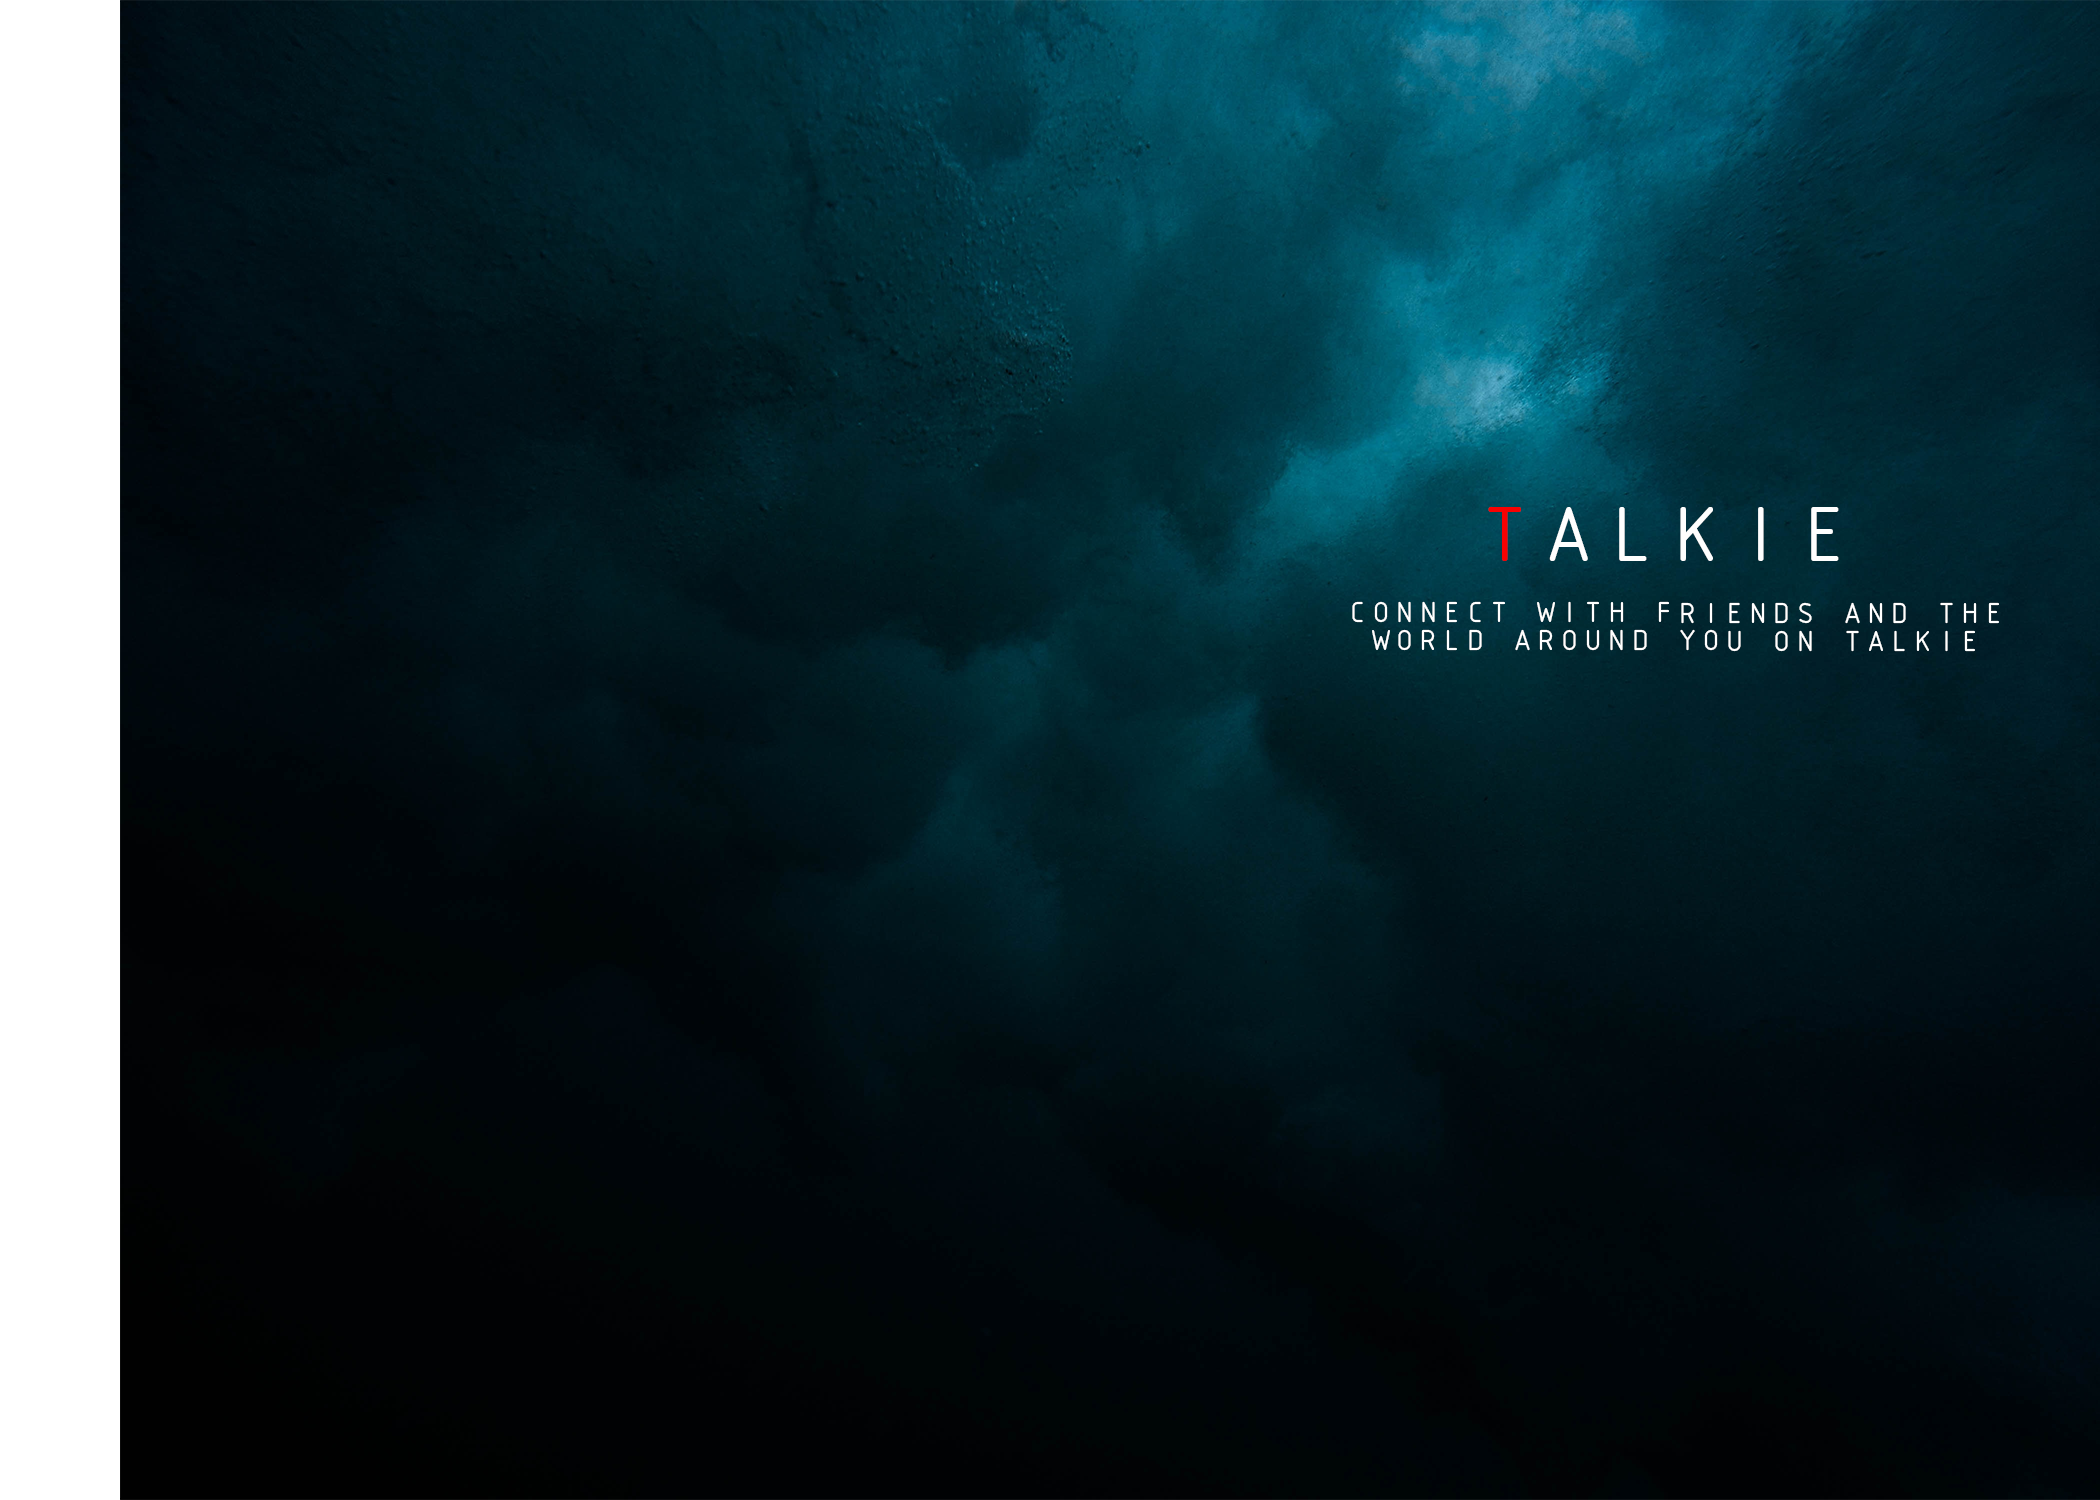
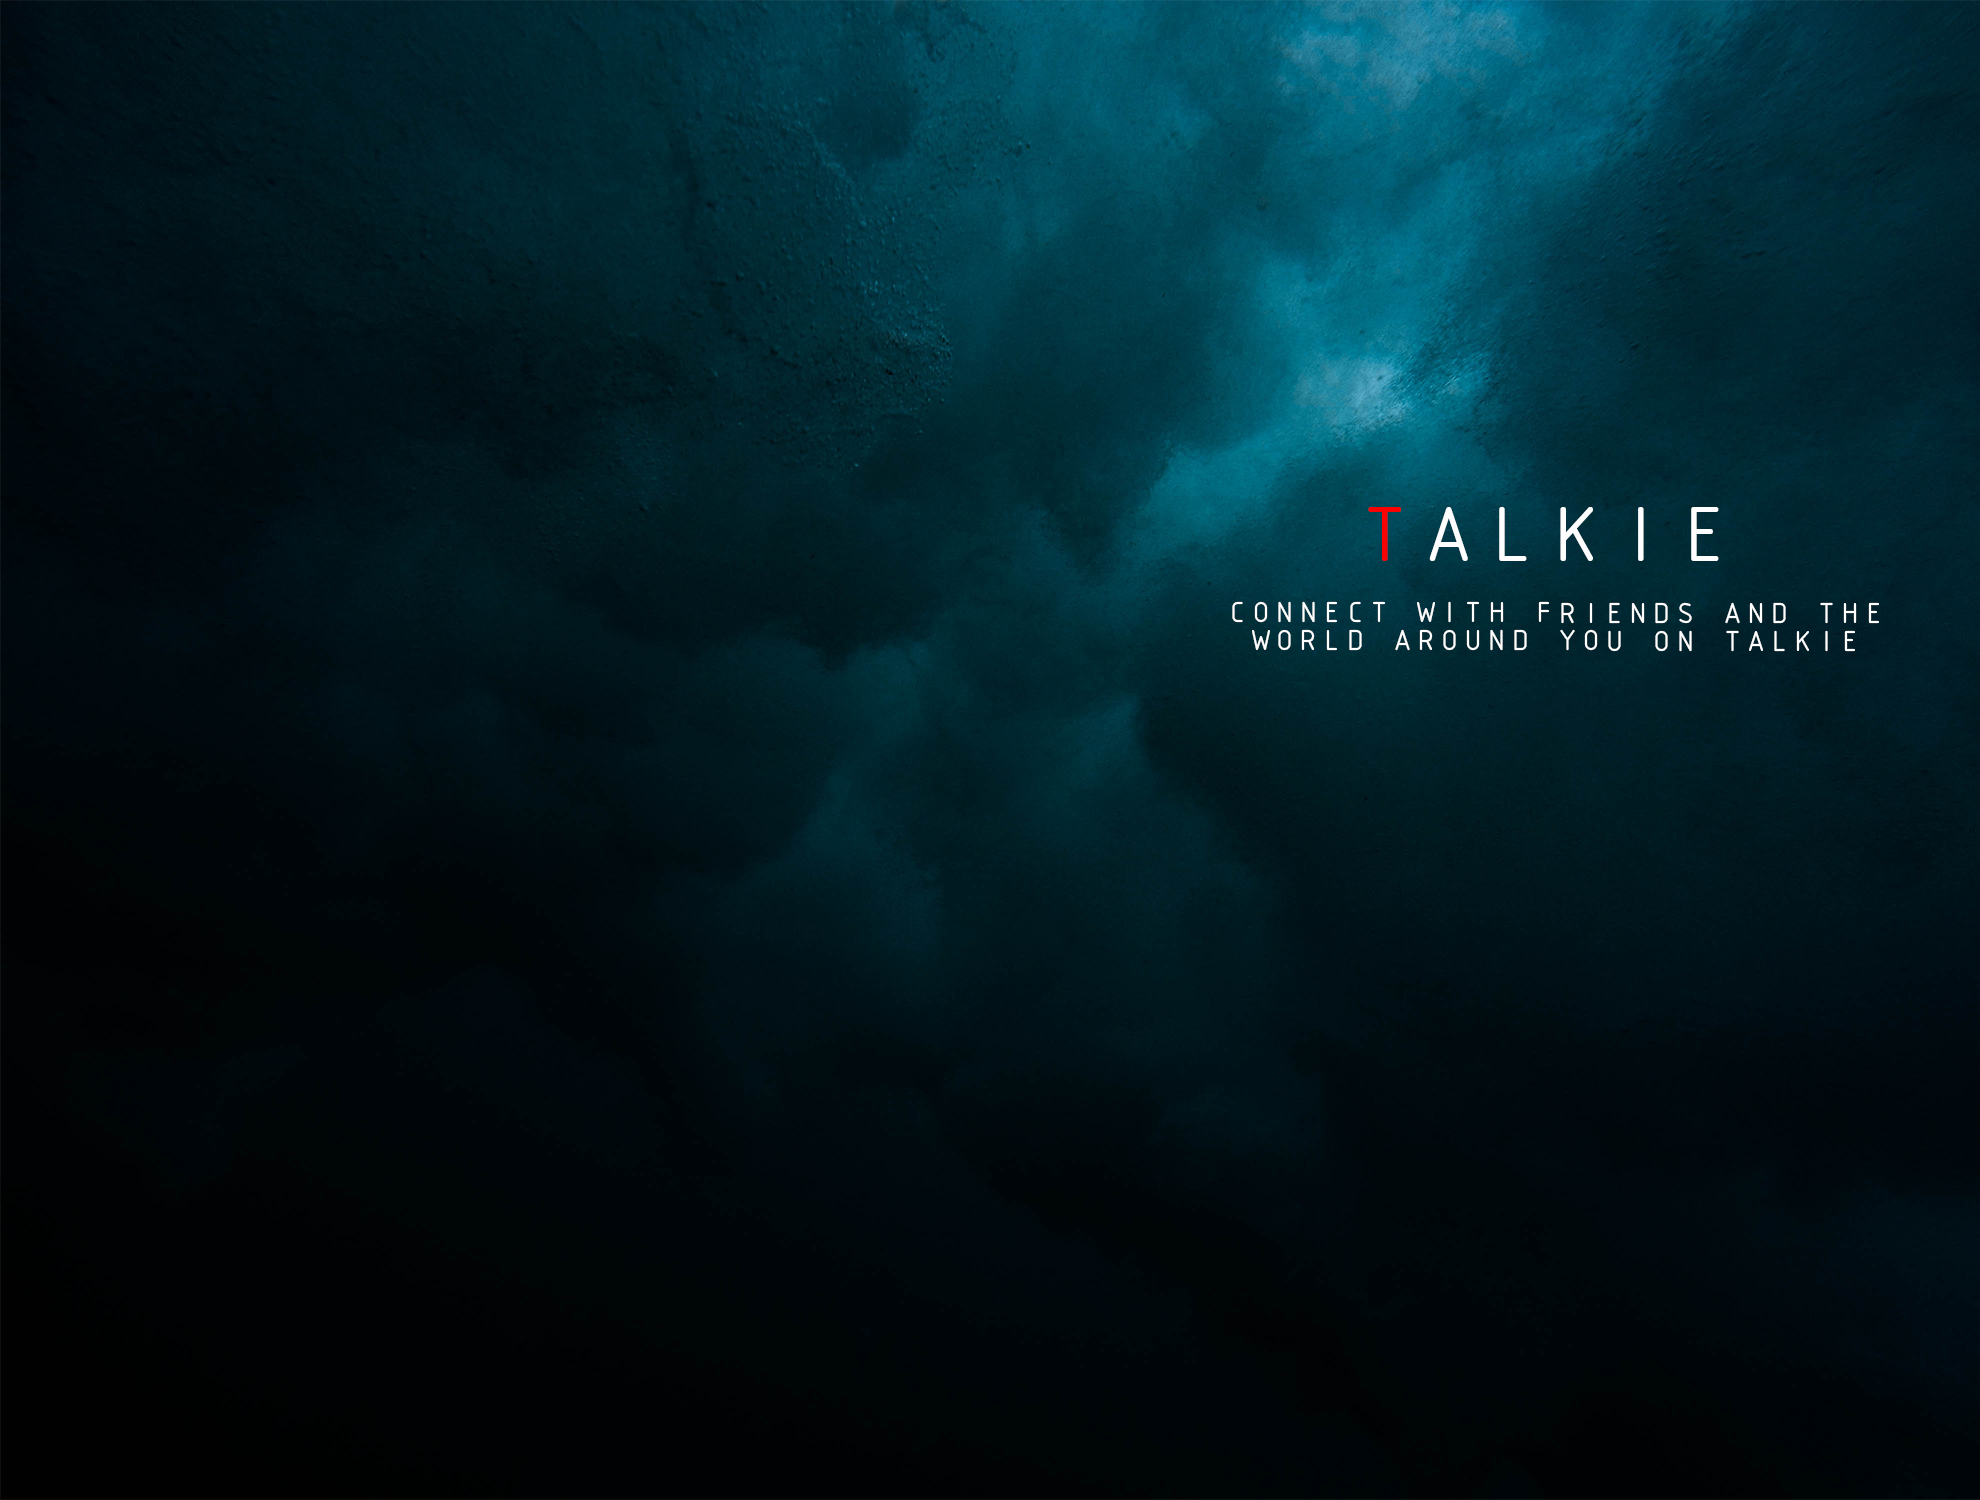
hotfix bg image

diff --git a/tailwind.config.js b/tailwind.config.js
@@ -11,7 +11,7 @@ module.exports = {
         extend: {
             backgroundImage: {
                 "login-pattern":
-                    "url('https://cdn.discordapp.com/attachments/1092390790162038844/1092506289998938213/backgrDreaptaSus.png')",
+                    "url('https://i.imgur.com/HyodIMy.png')",
             },
             boxShadow: {
                 "3xl": [
